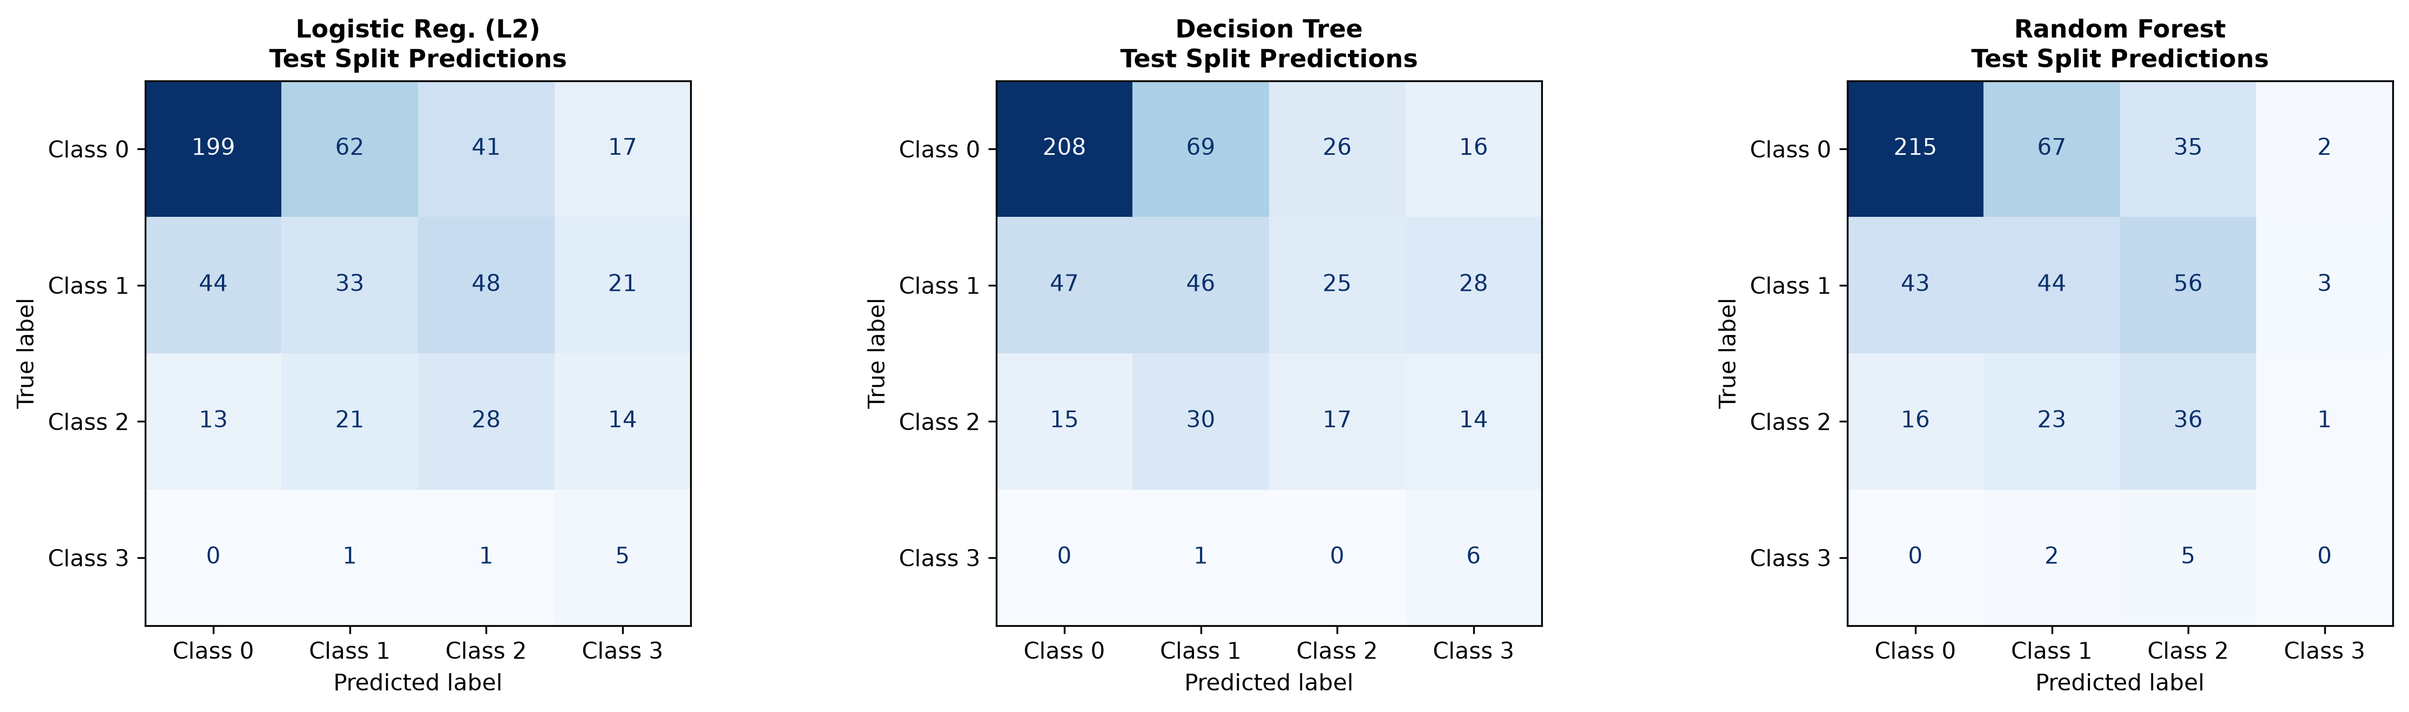
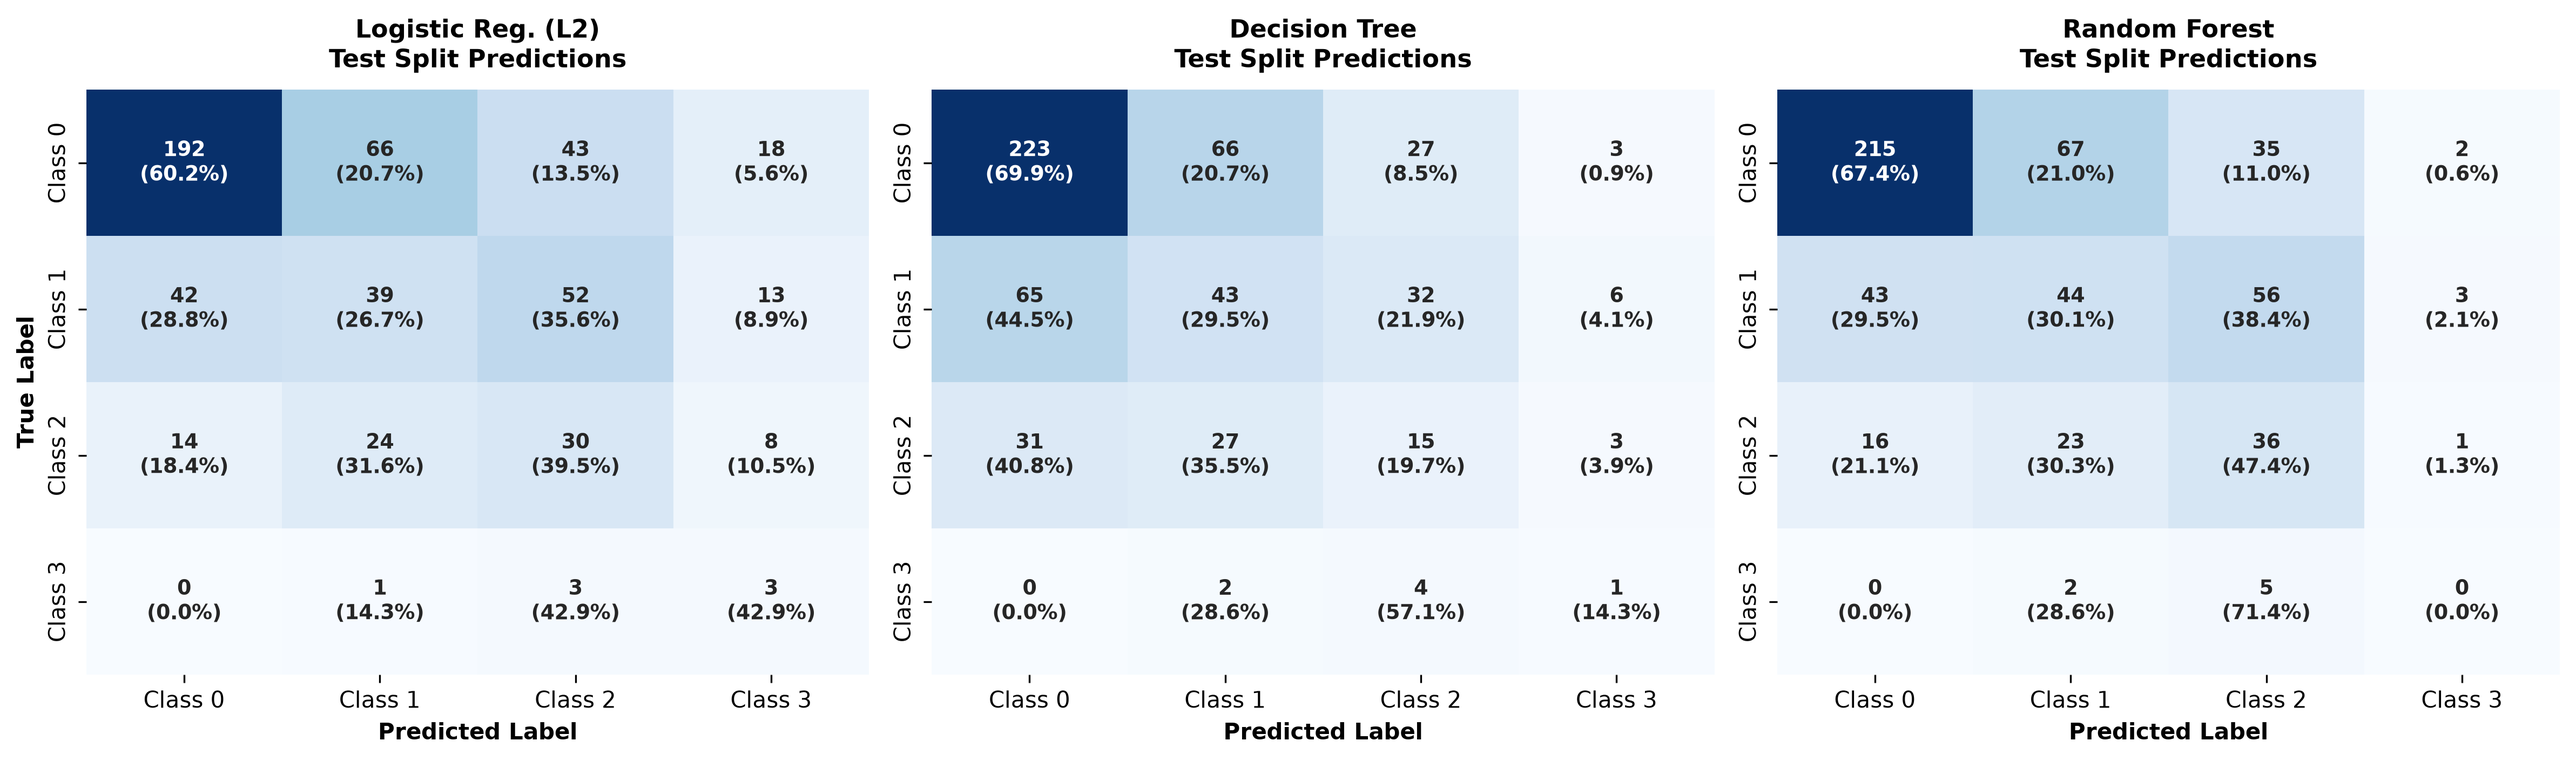
UPDATE 1.2

diff --git a/model_validation.py b/model_validation.py
@@ -1,9 +1,10 @@
 import pandas as pd
 import numpy as np
 import matplotlib.pyplot as plt
+import seaborn as sns
 from pathlib import Path
 
-from sklearn.model_selection import train_test_split, GridSearchCV
+from sklearn.model_selection import train_test_split, GridSearchCV, StratifiedKFold
 from sklearn.pipeline import Pipeline
 from sklearn.compose import ColumnTransformer
 from sklearn.impute import SimpleImputer
@@ -12,38 +13,28 @@ from sklearn.linear_model import LogisticRegression
 from sklearn.tree import DecisionTreeClassifier
 from sklearn.ensemble import RandomForestClassifier
 from sklearn.metrics import (
-    accuracy_score, precision_score, recall_score, f1_score,
+    accuracy_score, balanced_accuracy_score, precision_score, recall_score, f1_score,
     roc_auc_score, cohen_kappa_score, confusion_matrix, ConfusionMatrixDisplay,
     roc_curve, auc
 )
 
-# Set seed for statistical reproducibility
+# Set seed for reproducibility
 np.random.seed(42)
 
 DATASET_PATH = Path('train.csv')
 
 # ---------------------------------------------------------
-# 1. LOAD AND CLEAN KAGGLE HBN DATASET
+# 1. LOAD AND CLEAN DATASET
 # ---------------------------------------------------------
 print(f"Loading dataset from '{DATASET_PATH}'...")
 df = pd.read_csv(DATASET_PATH)
 
-# Target variable handling
 target_col = 'sii'
 df = df.dropna(subset=[target_col]).copy()
 df[target_col] = df[target_col].astype(int)
 
-# Report Target Class Distribution
-sii_counts = df[target_col].value_counts().sort_index()
-sii_pcts = (df[target_col].value_counts(normalize=True).sort_index() * 100).round(2)
-
-print("\n=== KAGGLE HBN TARGET ('sii') CLASS DISTRIBUTION ===")
-for cls, count in sii_counts.items():
-    print(f"Class {cls}: {count} participants ({sii_pcts[cls]}%)")
-print("Note: Class 3 (Severe PIU) represents a minority class (< 3%). Evaluation reports QWK and Macro metrics.\n")
-
 # ---------------------------------------------------------
-# 2. FEATURE ISOLATION (LEAKAGE PREVENTION)
+# 2. PREVENT LEAKAGE (STRICT FEATURE SEPARATION)
 # ---------------------------------------------------------
 # Exclude target, identifiers, and ALL PCIAT items/aggregates
 pciat_cols = [c for c in df.columns if 'PCIAT' in c or 'pciat' in c.lower()]
@@ -53,22 +44,20 @@ feature_cols = [c for c in df.columns if c not in non_predictor_cols]
 X = df[feature_cols].copy()
 y = df[target_col].copy()
 
-# Separate Numeric and Categorical Feature Spaces
 num_cols = X.select_dtypes(include=[np.number]).columns.tolist()
 cat_cols = X.select_dtypes(exclude=[np.number]).columns.tolist()
 
-print(f"Independent Predictors (X): {len(feature_cols)} features ({len(num_cols)} numeric, {len(cat_cols)} categorical).")
+print(f"Features: {len(feature_cols)} ({len(num_cols)} numeric, {len(cat_cols)} categorical).")
 
 # ---------------------------------------------------------
-# 3. STRATIFIED 80/20 HOLD-OUT TRAIN-TEST SPLIT
+# 3. STRATIFIED 80/20 HOLDOUT TEST SPLIT
 # ---------------------------------------------------------
-# Split performed BEFORE any data transformations
 X_train, X_test, y_train, y_test = train_test_split(
     X, y, test_size=0.20, stratify=y, random_state=42
 )
 
 # ---------------------------------------------------------
-# 4. PREPROCESSING PIPELINES (PREVENTING CV LEAKAGE)
+# 4. ENCAPSULATED PREPROCESSING PIPELINES
 # ---------------------------------------------------------
 num_transformer_linear = Pipeline([
     ('imputer', SimpleImputer(strategy='median')),
@@ -94,8 +83,11 @@ preprocessor_tree = ColumnTransformer([
     ('cat', cat_transformer, cat_cols)
 ])
 
+# Explicit 5-Fold Stratified CV Strategy
+cv_strategy = StratifiedKFold(n_splits=5, shuffle=True, random_state=42)
+
 # ---------------------------------------------------------
-# 5. MODEL ESTIMATORS & HYPERPARAMETER GRID
+# 5. MODEL ESTIMATORS & HYPERPARAMETER GRIDS
 # ---------------------------------------------------------
 models = {
     'Logistic Reg. (L2)': (
@@ -122,16 +114,15 @@ models = {
 }
 
 # ---------------------------------------------------------
-# 6. MODEL EVALUATION & DIAGNOSTICS
+# 6. EVALUATION PIPELINE
 # ---------------------------------------------------------
-benchmark_results = []
-results_for_csv = []
+classes = sorted(y.unique())
+results_summary = []
+per_class_results = []
 trained_pipelines = {}
 
-classes = sorted(y.unique())
-
 for name, (pipe, param_grid) in models.items():
-    grid = GridSearchCV(pipe, param_grid, cv=5, scoring='f1_macro', n_jobs=-1)
+    grid = GridSearchCV(pipe, param_grid, cv=cv_strategy, scoring='f1_macro', n_jobs=-1)
     grid.fit(X_train, y_train)
     
     best_pipe = grid.best_estimator_
@@ -141,79 +132,119 @@ for name, (pipe, param_grid) in models.items():
     y_proba = best_pipe.predict_proba(X_test)
     
     acc = accuracy_score(y_test, y_pred)
-    prec = precision_score(y_test, y_pred, average='macro', zero_division=0)
-    rec = recall_score(y_test, y_pred, average='macro', zero_division=0)
-    f1 = f1_score(y_test, y_pred, average='macro', zero_division=0)
+    bal_acc = balanced_accuracy_score(y_test, y_pred)
+    prec_macro = precision_score(y_test, y_pred, average='macro', zero_division=0)
+    rec_macro = recall_score(y_test, y_pred, average='macro', zero_division=0)
+    f1_macro = f1_score(y_test, y_pred, average='macro', zero_division=0)
     qwk = cohen_kappa_score(y_test, y_pred, weights='quadratic')
+    
+    # Explicit Distinctions for ROC AUC
     auc_macro_ovr = roc_auc_score(y_test, y_proba, multi_class='ovr', average='macro')
+    auc_micro_ovr = roc_auc_score(y_test, y_proba, multi_class='ovr', average='micro')
     
-    benchmark_results.append({
-        'Model': name,
-        'Acc.': f"{acc * 100:.2f}%",
-        'Prec. (Macro)': f"{prec * 100:.2f}%",
-        'Rec. (Macro)': f"{rec * 100:.2f}%",
-        'F1 (Macro)': f"{f1 * 100:.2f}%",
-        'QWK': f"{qwk:.4f}",
-        'AUC (Macro OVR)': f"{auc_macro_ovr:.4f}"
-    })
-    
-    results_for_csv.append({
+    results_summary.append({
         'Model': name,
         'Test_Accuracy': acc,
-        'Test_Precision_macro': prec,
-        'Test_Recall_macro': rec,
-        'Test_F1_macro': f1,
+        'Test_Balanced_Accuracy': bal_acc,
+        'Test_Precision_macro': prec_macro,
+        'Test_Recall_macro': rec_macro,
+        'Test_F1_macro': f1_macro,
         'Test_QWK': qwk,
-        'Test_ROC_AUC_macro_OVR': auc_macro_ovr
+        'Test_ROC_AUC_macro_OVR': auc_macro_ovr,
+        'Test_ROC_AUC_micro_OVR': auc_micro_ovr
     })
+    
+    # Per-Class Breakdown
+    prec_pc = precision_score(y_test, y_pred, average=None, zero_division=0)
+    rec_pc = recall_score(y_test, y_pred, average=None, zero_division=0)
+    f1_pc = f1_score(y_test, y_pred, average=None, zero_division=0)
+    
+    for idx_c, c in enumerate(classes):
+        per_class_results.append({
+            'Model': name,
+            'Class': f"Class {c}",
+            'Precision': prec_pc[idx_c],
+            'Recall': rec_pc[idx_c],
+            'F1': f1_pc[idx_c]
+        })
 
-proof_table = pd.DataFrame(benchmark_results)
-print("=== LEAKAGE-CONTROLLED BENCHMARK PERFORMANCE TABLE (TABLE 4.1) ===")
-print(proof_table.to_string(index=False))
+df_results_summary = pd.DataFrame(results_summary)
+df_per_class = pd.DataFrame(per_class_results)
 
-# Save numeric csv for chart generator script
-pd.DataFrame(results_for_csv).to_csv('model_results.csv', index=False)
-print("\nExported clean results to 'model_results.csv'.")
+# Export clean CSV files
+df_results_summary.to_csv('model_results.csv', index=False)
+df_per_class.to_csv('per_class_results.csv', index=False)
+
+print("\n=== SUMMARY METRICS ===")
+print(df_results_summary.to_string(index=False))
 
 # ---------------------------------------------------------
-# 7. GENERATE DIAGNOSTIC FIGURES
+# 7. IMPROVED VISUALIZATIONS
 # ---------------------------------------------------------
-# Confusion Matrices
-fig, axes = plt.subplots(1, len(models), figsize=(16, 4.5), dpi=300)
+# Figure 1: Enhanced Confusion Matrices (Counts + Row Recall Percentages)
+fig, axes = plt.subplots(1, len(models), figsize=(16, 4.8), dpi=300)
 labels = [f"Class {c}" for c in classes]
 
 for idx, (name, pipe) in enumerate(trained_pipelines.items()):
     y_pred = pipe.predict(X_test)
     cm = confusion_matrix(y_test, y_pred)
-    disp = ConfusionMatrixDisplay(confusion_matrix=cm, display_labels=labels)
-    disp.plot(ax=axes[idx], cmap='Blues', colorbar=False)
-    axes[idx].set_title(f"{name}\nTest Split Predictions", fontsize=11, fontweight='bold')
+    
+    # Calculate row-normalized recall percentages
+    cm_perc = cm.astype('float') / cm.sum(axis=1)[:, np.newaxis] * 100
+    
+    annot = np.empty_like(cm, dtype=object)
+    for r in range(cm.shape[0]):
+        for c in range(cm.shape[1]):
+            annot[r, c] = f"{cm[r, c]}\n({cm_perc[r, c]:.1f}%)"
+            
+    sns.heatmap(cm, annot=annot, fmt="", cmap='Blues', cbar=False, ax=axes[idx],
+                xticklabels=labels, yticklabels=labels, annot_kws={"size": 9, "weight": "bold"})
+    axes[idx].set_title(f"{name}\nTest Split Predictions", fontsize=11, fontweight='bold', pad=10)
+    axes[idx].set_xlabel('Predicted Label', fontsize=10, fontweight='bold')
+    if idx == 0:
+        axes[idx].set_ylabel('True Label', fontsize=10, fontweight='bold')
 
 plt.tight_layout()
 plt.savefig('confusion_matrices_proof.png', bbox_inches='tight')
-print("Saved leakage-controlled confusion matrices: 'confusion_matrices_proof.png'")
+plt.close()
 
-# ROC Curves (Macro OVR Distinction)
-fig_roc, ax_roc = plt.subplots(figsize=(8, 6), dpi=300)
+# Figure 2: Enhanced ROC Curves (Macro OVR vs. Micro OVR)
+fig_roc, ax_roc = plt.subplots(figsize=(8.5, 6.5), dpi=300)
 y_test_bin = label_binarize(y_test, classes=classes)
-colors_dict = {'Logistic Reg. (L2)': 'blue', 'Decision Tree': 'orange', 'Random Forest': 'green'}
+colors_dict = {'Logistic Reg. (L2)': '#1f77b4', 'Decision Tree': '#ff7f0e', 'Random Forest': '#2ca02c'}
 
 for name, pipe in trained_pipelines.items():
     y_proba = pipe.predict_proba(X_test)
-    fpr, tpr, _ = roc_curve(y_test_bin.ravel(), y_proba.ravel())
-    roc_micro_auc = auc(fpr, tpr)
-    ax_roc.plot(fpr, tpr, color=colors_dict[name], lw=2, 
-                label=f'{name} (Micro-AUC = {roc_micro_auc:.4f})')
+    
+    # Micro-average ROC
+    fpr_micro, tpr_micro, _ = roc_curve(y_test_bin.ravel(), y_proba.ravel())
+    roc_micro_auc = auc(fpr_micro, tpr_micro)
+    
+    # Macro-average ROC
+    fpr_grid = np.unique(np.concatenate([roc_curve(y_test_bin[:, i], y_proba[:, i])[0] for i in range(len(classes))]))
+    mean_tpr = np.zeros_like(fpr_grid)
+    for i in range(len(classes)):
+        fpr_i, tpr_i, _ = roc_curve(y_test_bin[:, i], y_proba[:, i])
+        mean_tpr += np.interp(fpr_grid, fpr_i, tpr_i)
+    mean_tpr /= len(classes)
+    roc_macro_auc = auc(fpr_grid, mean_tpr)
+    
+    ax_roc.plot(fpr_grid, mean_tpr, color=colors_dict[name], lw=2.2,
+                label=f'{name} (Macro-AUC = {roc_macro_auc:.4f})')
+    ax_roc.plot(fpr_micro, tpr_micro, color=colors_dict[name], lw=1.5, linestyle=':',
+                label=f'  └─ {name} (Micro-AUC = {roc_micro_auc:.4f})')
 
 ax_roc.plot([0, 1], [0, 1], 'k--', lw=1.5, label='Random Chance')
-ax_roc.set_xlim([0.0, 1.0])
-ax_roc.set_ylim([0.0, 1.05])
-ax_roc.set_xlabel('False Positive Rate', fontsize=11)
-ax_roc.set_ylabel('True Positive Rate', fontsize=11)
-ax_roc.set_title('Multi-Class ROC Curves (20% Holdout Test Split)', fontsize=12, fontweight='bold')
-ax_roc.legend(loc="lower right")
-ax_roc.grid(True, alpha=0.3)
+ax_roc.set_xlim([-0.01, 1.0])
+ax_roc.set_ylim([0.0, 1.02])
+ax_roc.set_xlabel('False Positive Rate (1 - Specificity)', fontsize=11, fontweight='bold')
+ax_roc.set_ylabel('True Positive Rate (Sensitivity)', fontsize=11, fontweight='bold')
+ax_roc.set_title('Multi-Class One-vs-Rest ROC Curves (20% Holdout Test Split)', fontsize=12, fontweight='bold', pad=12)
+ax_roc.legend(loc="lower right", fontsize=9, frameon=True, facecolor='white', framealpha=0.95)
+ax_roc.grid(True, linestyle='--', alpha=0.4)
 
 plt.tight_layout()
 plt.savefig('roc_curves_proof.png', bbox_inches='tight')
-print("Saved leakage-controlled ROC curves: 'roc_curves_proof.png'")
+plt.close()
+
+print("Execution complete. Exported 'model_results.csv' and updated figures.")
